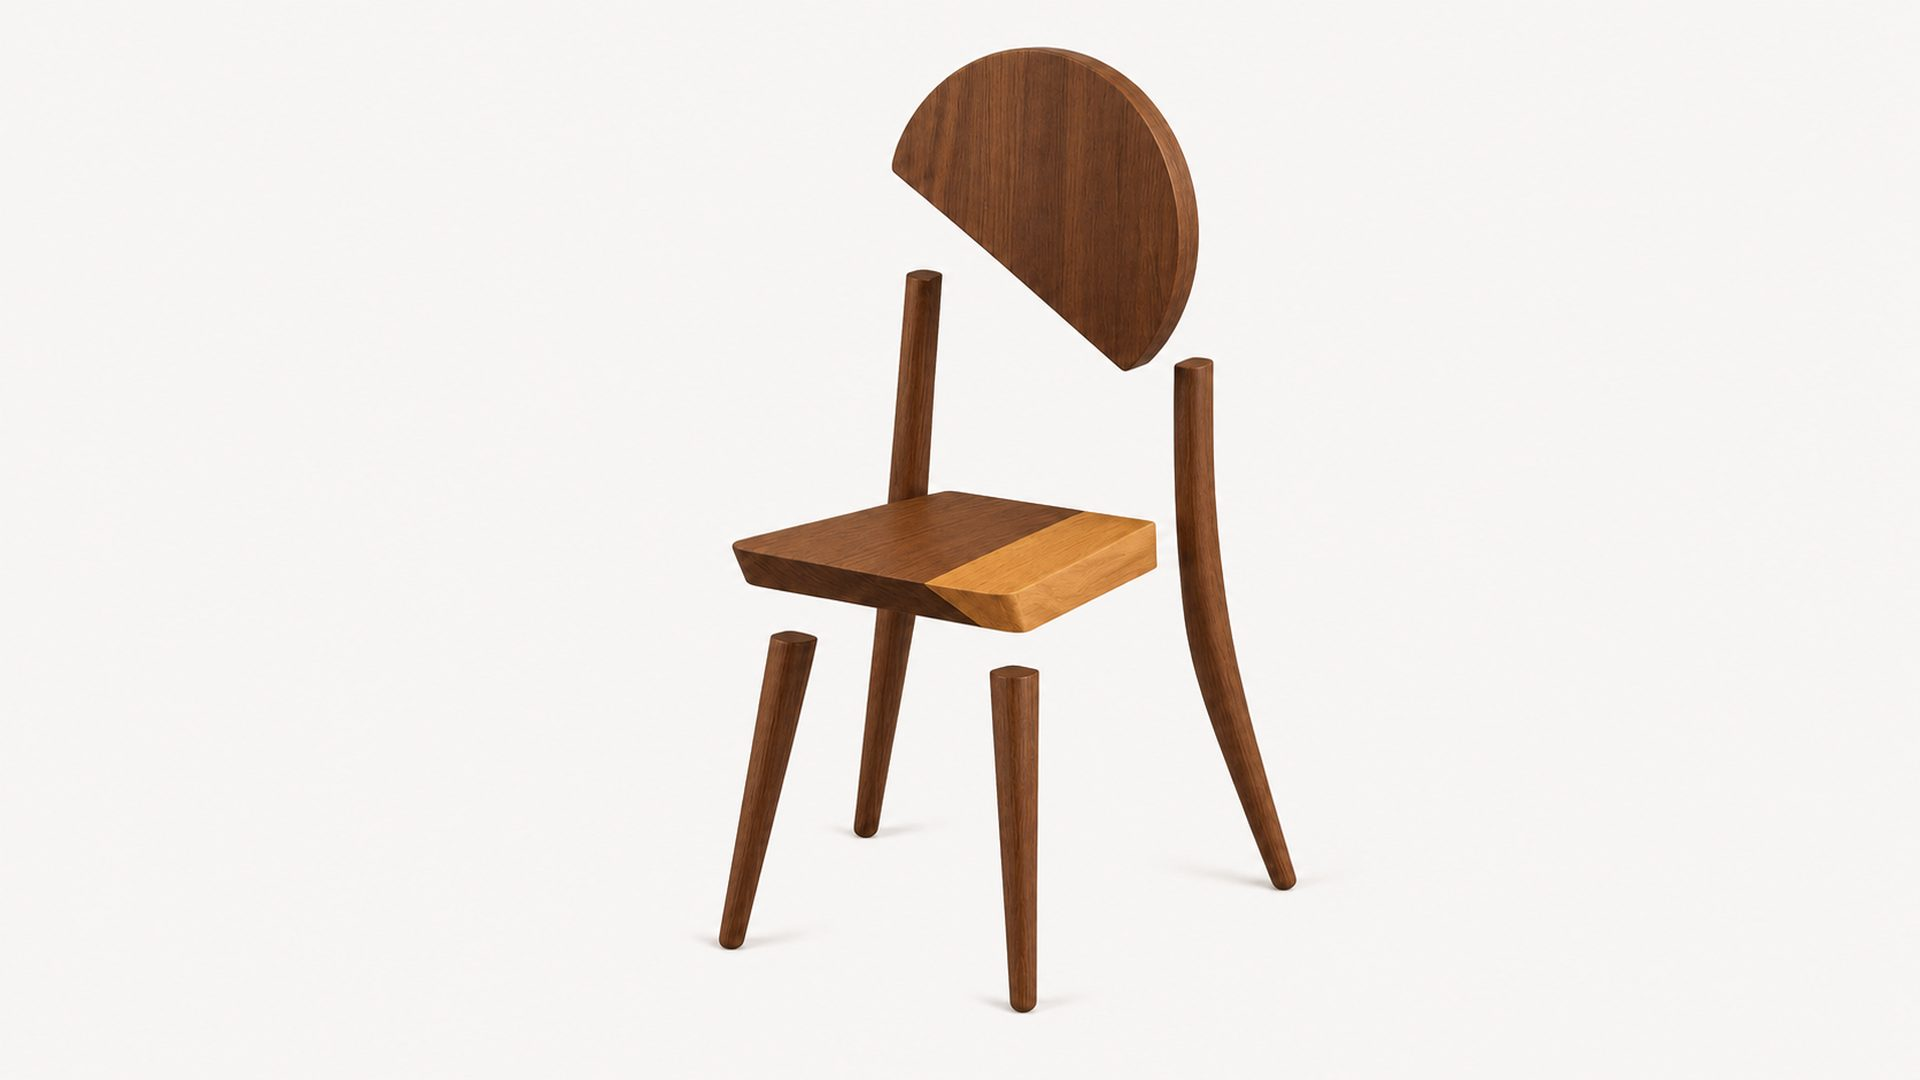
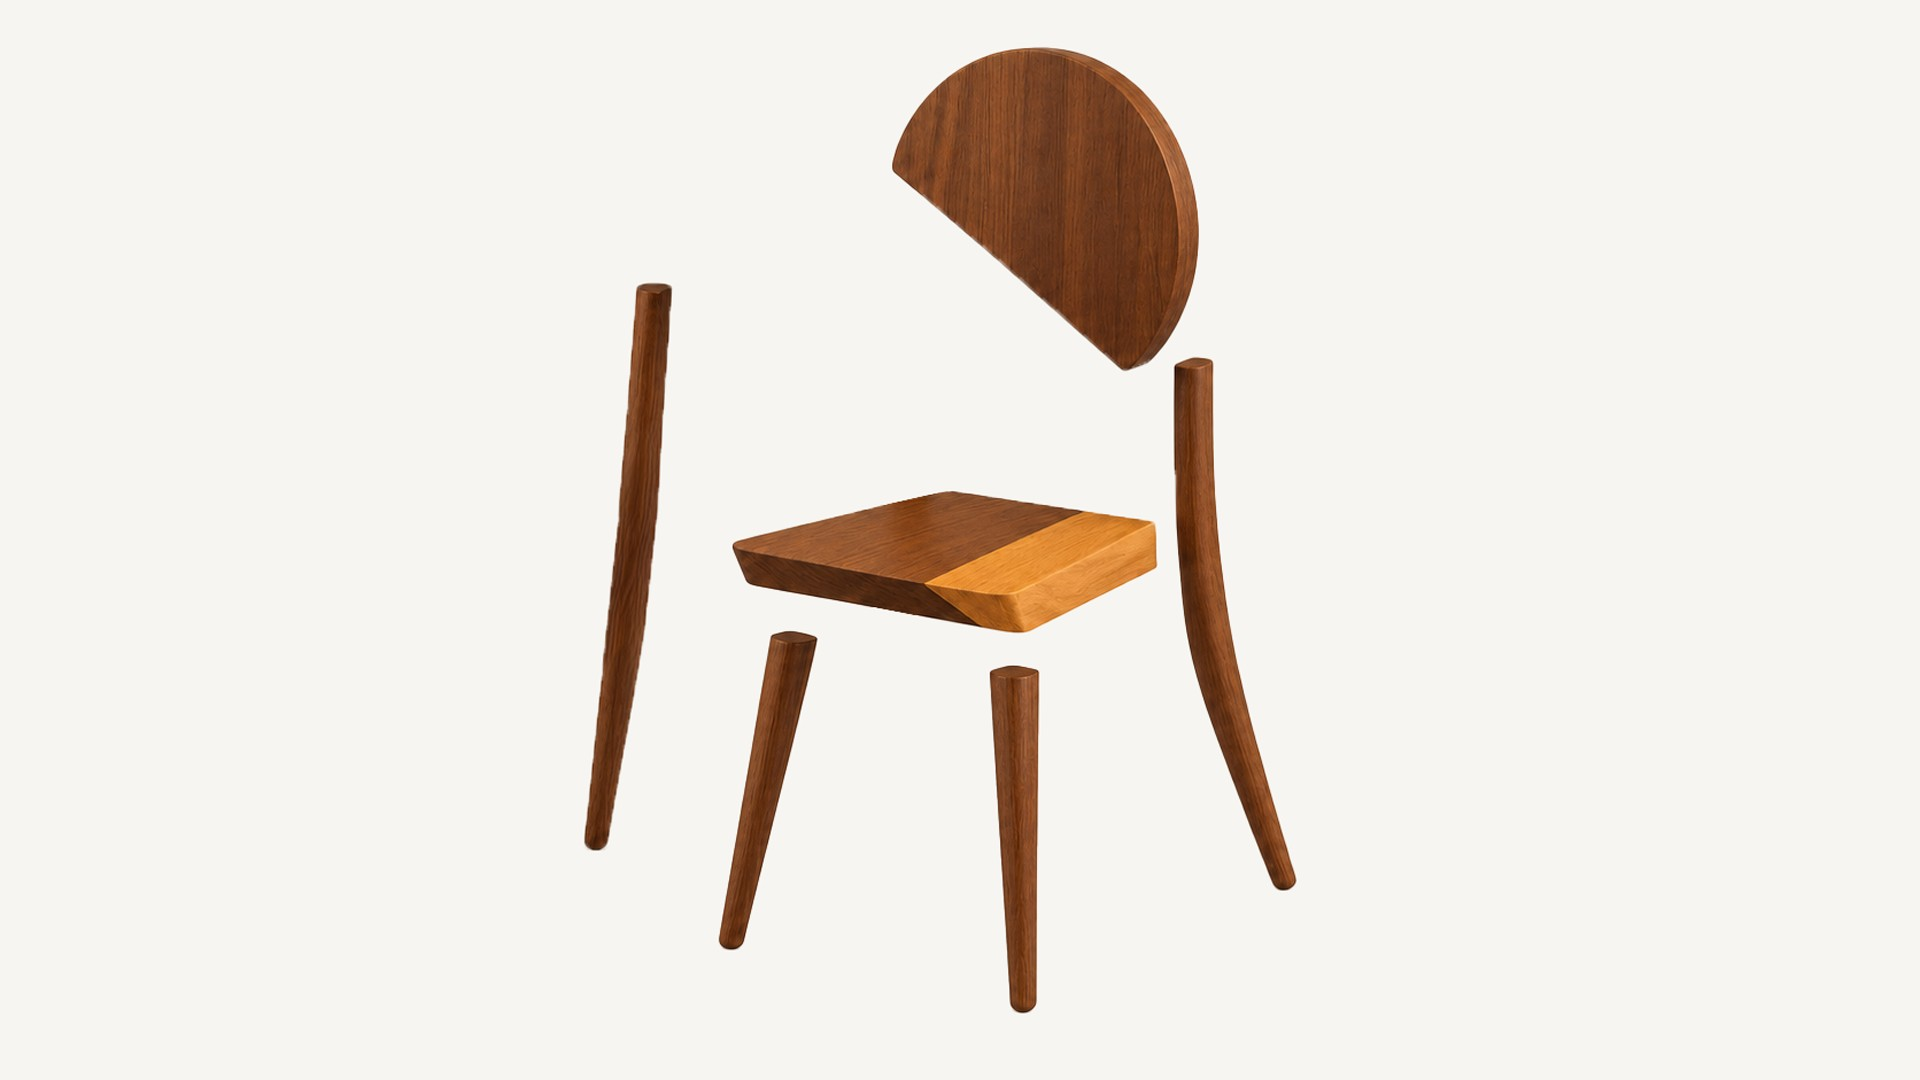
Edits
Made tweaks via Claude

diff --git a/totem.html b/totem.html
@@ -9,7 +9,7 @@
 <link rel="preconnect" href="https://fonts.googleapis.com">
 <link rel="preconnect" href="https://fonts.gstatic.com" crossorigin>
 <link href="https://fonts.googleapis.com/css2?family=DM+Mono&family=Hanken+Grotesk:wght@200;300;400&display=swap" rel="stylesheet">
-<link rel="stylesheet" href="css/style.css?v=13">
+<link rel="stylesheet" href="css/style.css?v=14">
 </head>
 <body>
 <header class="nav grid">
@@ -61,12 +61,12 @@
     </div>
   </section>
 
-  <section class="construction" data-construction>
+  <section class="construction" data-construction data-parts-final>
     <div class="construction__stick grid">
       <div class="construction__label">Construction</div>
       <div class="construction__tile" role="img" aria-label="Totem assembling from its parts as you scroll">
-        <img class="exploded" src="assets/renders/totem-exploded.jpg" alt="">
-        <img class="piece" src="assets/parts/totem-0.png?v=13" alt="" data-dx="0.857" data-dy="5.309" data-sx="1.0731" data-sy="1.0934" style="left:46.172%;top:3.819%;width:16.562%;height:31.111%;z-index:5"><img class="piece" src="assets/parts/totem-1.png?v=13" alt="" data-dx="0.16" data-dy="-1.202" data-sx="1.0142" data-sy="0.9914" style="left:37.852%;top:24.444%;width:22.695%;height:53.681%;z-index:3"><img class="piece" src="assets/parts/totem-2.png?v=13" alt="" data-dx="-1.621" data-dy="0.241" data-sx="0.9986" data-sy="0.9986" style="left:60.82%;top:32.569%;width:6.992%;height:50.417%;z-index:3"><img class="piece" src="assets/parts/totem-3.png?v=13" alt="" data-dx="1.586" data-dy="-6.116" data-sx="1.114" data-sy="1.114" style="left:36.719%;top:57.847%;width:6.133%;height:30.625%;z-index:1"><img class="piece" src="assets/parts/totem-4.png?v=13" alt="" data-dx="1.434" data-dy="-6.555" data-sx="1.1462" data-sy="1.1462" style="left:51.25%;top:61.111%;width:3.164%;height:33.264%;z-index:1"><img class="piece" src="assets/parts/totem-5.png?v=13" alt="" data-dx="3.735" data-dy="1.39" data-sx="0.9679" data-sy="0.9149" style="left:37.852%;top:24.444%;width:22.695%;height:53.681%;z-index:4"><img class="piece" src="assets/parts/totem-6.png?v=13" alt="" data-dx="-6.793" data-dy="-10.624" data-sx="1.321" data-sy="1.321" data-m="1.24304,0.08224,-4.2016,-8.5412" style="left:37.852%;top:24.444%;width:22.695%;height:53.681%">
+        <img class="exploded" src="assets/renders/totem-exploded.jpg?v=14" alt="">
+        <img class="piece" src="assets/parts/totem-0.png?v=14" alt="" data-dx="0.956" data-dy="5.221" data-sx="1.0600000000000003" data-sy="1.0600000000000003" style="left:46.232%;top:4.038%;width:16.388%;height:30.712%;z-index:5"><img class="piece" src="assets/parts/totem-1.png?v=14" alt="" data-dx="1.664" data-dy="-0.799" data-sx="0.9400000000000002" data-sy="0.9400000000000002" style="left:37.919%;top:45.058%;width:22.548%;height:13.921%;z-index:3"><img class="piece" src="assets/parts/totem-2.png?v=14" alt="" data-dx="-1.485" data-dy="5.961" data-sx="0.85" data-sy="0.85" style="left:60.885%;top:32.731%;width:6.878%;height:50.159%;z-index:4"><img class="piece" src="assets/parts/totem-3.png?v=14" alt="" data-dx="1.307" data-dy="-5.53" data-sx="1.0923" data-sy="1.0923" style="left:37.201%;top:58.023%;width:5.562%;height:30.287%;z-index:2"><img class="piece" src="assets/parts/totem-4.png?v=14" alt="" data-dx="1.562" data-dy="-6.452" data-sx="1.1124" data-sy="1.1124" style="left:51.316%;top:61.211%;width:3.05%;height:32.944%;z-index:2"><img class="piece" src="assets/parts/totem-5.png?v=14" alt="" data-dx="0" data-dy="0" data-sx="1" data-sy="1" data-m="1.0,0,17.2082,0.3144" style="left:30.203%;top:25.824%;width:5.024%;height:53.348%;z-index:1">
         <img class="assembled" src="assets/renders/totem-three-quarter.jpg" alt="">
       </div>
     </div>
@@ -111,8 +111,8 @@
   <a href="#">Instagram</a>
   <a href="#">Contact</a>
 </footer>
-<script src="js/menu.js?v=13" defer></script>
-<script src="js/viewer.js?v=13" defer></script>
-<script src="js/construction.js?v=13" defer></script>
+<script src="js/menu.js?v=14" defer></script>
+<script src="js/viewer.js?v=14" defer></script>
+<script src="js/construction.js?v=14" defer></script>
 </body>
 </html>

diff --git a/shard.html b/shard.html
@@ -9,7 +9,7 @@
 <link rel="preconnect" href="https://fonts.googleapis.com">
 <link rel="preconnect" href="https://fonts.gstatic.com" crossorigin>
 <link href="https://fonts.googleapis.com/css2?family=DM+Mono&family=Hanken+Grotesk:wght@200;300;400&display=swap" rel="stylesheet">
-<link rel="stylesheet" href="css/style.css?v=13">
+<link rel="stylesheet" href="css/style.css?v=14">
 </head>
 <body>
 <header class="nav grid">
@@ -65,8 +65,8 @@
     <div class="construction__stick grid">
       <div class="construction__label">Construction</div>
       <div class="construction__tile" role="img" aria-label="Shard assembling from its parts as you scroll">
-        <img class="exploded" src="assets/renders/shard-exploded.jpg" alt="">
-        <img class="piece" src="assets/parts/shard-0.png?v=13" alt="" data-dx="-0.247" data-dy="7.662" data-sx="1" data-sy="1" style="left:36.914%;top:2.847%;width:14.727%;height:39.028%;z-index:2"><img class="piece" src="assets/parts/shard-1.png?v=13" alt="" data-dx="-0.325" data-dy="0.509" data-sx="1" data-sy="1" style="left:38.203%;top:38.472%;width:24.805%;height:14.653%;z-index:3"><img class="piece" src="assets/parts/shard-2.png?v=13" alt="" data-dx="0.703" data-dy="-6.99" data-sx="1" data-sy="1" style="left:36.406%;top:52.292%;width:5.898%;height:39.375%;z-index:1"><img class="piece" src="assets/parts/shard-3.png?v=13" alt="" data-dx="-0.143" data-dy="-6.621" data-sx="1" data-sy="1" style="left:48.398%;top:52.847%;width:2.773%;height:29.931%;z-index:1"><img class="piece" src="assets/parts/shard-4.png?v=13" alt="" data-dx="-0.56" data-dy="-6.482" data-sx="1" data-sy="1" style="left:56.68%;top:55.208%;width:5.625%;height:40.417%;z-index:1">
+        <img class="exploded" src="assets/renders/shard-exploded.jpg?v=14" alt="">
+        <img class="piece" src="assets/parts/shard-0.png?v=14" alt="" data-dx="-0.247" data-dy="7.662" data-sx="1" data-sy="1" style="left:36.914%;top:2.847%;width:14.727%;height:39.028%;z-index:2"><img class="piece" src="assets/parts/shard-1.png?v=14" alt="" data-dx="-0.325" data-dy="0.509" data-sx="1" data-sy="1" style="left:38.203%;top:38.472%;width:24.805%;height:14.653%;z-index:3"><img class="piece" src="assets/parts/shard-2.png?v=14" alt="" data-dx="0.703" data-dy="-6.99" data-sx="1" data-sy="1" style="left:36.406%;top:52.292%;width:5.898%;height:39.375%;z-index:1"><img class="piece" src="assets/parts/shard-3.png?v=14" alt="" data-dx="-0.143" data-dy="-6.621" data-sx="1" data-sy="1" style="left:48.398%;top:52.847%;width:2.773%;height:29.931%;z-index:1"><img class="piece" src="assets/parts/shard-4.png?v=14" alt="" data-dx="-0.56" data-dy="-6.482" data-sx="1" data-sy="1" style="left:56.68%;top:55.208%;width:5.625%;height:40.417%;z-index:1">
         <img class="assembled" src="assets/renders/shard-three-quarter.jpg" alt="">
       </div>
     </div>
@@ -111,8 +111,8 @@
   <a href="#">Instagram</a>
   <a href="#">Contact</a>
 </footer>
-<script src="js/menu.js?v=13" defer></script>
-<script src="js/viewer.js?v=13" defer></script>
-<script src="js/construction.js?v=13" defer></script>
+<script src="js/menu.js?v=14" defer></script>
+<script src="js/viewer.js?v=14" defer></script>
+<script src="js/construction.js?v=14" defer></script>
 </body>
 </html>

diff --git a/float.html b/float.html
@@ -9,7 +9,7 @@
 <link rel="preconnect" href="https://fonts.googleapis.com">
 <link rel="preconnect" href="https://fonts.gstatic.com" crossorigin>
 <link href="https://fonts.googleapis.com/css2?family=DM+Mono&family=Hanken+Grotesk:wght@200;300;400&display=swap" rel="stylesheet">
-<link rel="stylesheet" href="css/style.css?v=13">
+<link rel="stylesheet" href="css/style.css?v=14">
 </head>
 <body>
 <header class="nav grid">
@@ -65,8 +65,8 @@
     <div class="construction__stick grid">
       <div class="construction__label">Construction</div>
       <div class="construction__tile" role="img" aria-label="Float assembling from its parts as you scroll">
-        <img class="exploded" src="assets/renders/float-exploded.jpg" alt="">
-        <img class="piece" src="assets/parts/float-0.png?v=13" alt="" data-dx="0.834" data-dy="1.992" data-sx="0.9345" data-sy="0.9345" style="left:37.031%;top:9.167%;width:34.375%;height:69.236%;z-index:3"><img class="piece" src="assets/parts/float-1.png?v=13" alt="" data-dx="1.213" data-dy="-5.798" data-sx="1.0862" data-sy="1.0862" style="left:35.078%;top:47.986%;width:4.258%;height:32.431%;z-index:1"><img class="piece" src="assets/parts/float-2.png?v=13" alt="" data-dx="0.288" data-dy="-6.784" data-sx="1.0304" data-sy="1.0304" style="left:50.391%;top:51.528%;width:3.75%;height:37.222%;z-index:1"><img class="piece" src="assets/parts/float-3.png?v=13" alt="" data-dx="0.417" data-dy="2.5" data-sx="0.86" data-sy="0.94" style="left:37.031%;top:9.167%;width:34.375%;height:69.236%;z-index:2">
+        <img class="exploded" src="assets/renders/float-exploded.jpg?v=14" alt="">
+        <img class="piece" src="assets/parts/float-0.png?v=14" alt="" data-dx="0.834" data-dy="1.992" data-sx="0.9345" data-sy="0.9345" style="left:37.031%;top:9.167%;width:34.375%;height:69.236%;z-index:3"><img class="piece" src="assets/parts/float-1.png?v=14" alt="" data-dx="1.213" data-dy="-5.798" data-sx="1.0862" data-sy="1.0862" style="left:35.078%;top:47.986%;width:4.258%;height:32.431%;z-index:1"><img class="piece" src="assets/parts/float-2.png?v=14" alt="" data-dx="0.288" data-dy="-6.784" data-sx="1.0304" data-sy="1.0304" style="left:50.391%;top:51.528%;width:3.75%;height:37.222%;z-index:1"><img class="piece" src="assets/parts/float-3.png?v=14" alt="" data-dx="0.417" data-dy="2.5" data-sx="0.86" data-sy="0.94" style="left:37.031%;top:9.167%;width:34.375%;height:69.236%;z-index:2">
         <img class="assembled" src="assets/renders/float-three-quarter.jpg" alt="">
       </div>
     </div>
@@ -111,8 +111,8 @@
   <a href="#">Instagram</a>
   <a href="#">Contact</a>
 </footer>
-<script src="js/menu.js?v=13" defer></script>
-<script src="js/viewer.js?v=13" defer></script>
-<script src="js/construction.js?v=13" defer></script>
+<script src="js/menu.js?v=14" defer></script>
+<script src="js/viewer.js?v=14" defer></script>
+<script src="js/construction.js?v=14" defer></script>
 </body>
 </html>

diff --git a/js/construction.js b/js/construction.js
@@ -7,6 +7,8 @@
   const tile = section.querySelector(".construction__tile");
   const exploded = tile.querySelector(".exploded");
   const assembled = tile.querySelector(".assembled");
+  // Totem ends on its own parts (the studio render hides the back leg)
+  const partsFinal = section.hasAttribute("data-parts-final");
   const pieces = [...tile.querySelectorAll(".piece")].map(el => ({ el, dx: +el.dataset.dx, dy: +el.dataset.dy, sx: +el.dataset.sx || 1, sy: +el.dataset.sy || 1, out: !!el.dataset.out, m: el.dataset.m ? el.dataset.m.split(",").map(Number) : null }));
   if (matchMedia("(prefers-reduced-motion: reduce)").matches) return;
 
@@ -36,7 +38,7 @@
         }
         q.el.style.transform = `translate(${(q.dx / 100 * w * t).toFixed(2)}px, ${(q.dy / 100 * h * t).toFixed(2)}px) scale(${(1 + (q.sx - 1) * t).toFixed(4)}, ${(1 + (q.sy - 1) * t).toFixed(4)})`;
       });
-      assembled.style.opacity = ease((p - 0.5) / 0.1).toFixed(3);
+      if (!partsFinal) assembled.style.opacity = ease((p - 0.5) / 0.1).toFixed(3);
     }
     requestAnimationFrame(tick);
   }

diff --git a/index.html b/index.html
@@ -9,7 +9,7 @@
 <link rel="preconnect" href="https://fonts.googleapis.com">
 <link rel="preconnect" href="https://fonts.gstatic.com" crossorigin>
 <link href="https://fonts.googleapis.com/css2?family=DM+Mono&family=Hanken+Grotesk:wght@200;300;400&display=swap" rel="stylesheet">
-<link rel="stylesheet" href="css/style.css?v=13">
+<link rel="stylesheet" href="css/style.css?v=14">
 </head>
 <body>
 <header class="nav grid">
@@ -142,8 +142,8 @@
   <a href="#">Instagram</a>
   <a href="#">Contact</a>
 </footer>
-<script src="js/menu.js?v=13" defer></script>
-<script src="js/lineup.js?v=13" defer></script>
-<script src="js/shape.js?v=13" defer></script>
+<script src="js/menu.js?v=14" defer></script>
+<script src="js/lineup.js?v=14" defer></script>
+<script src="js/shape.js?v=14" defer></script>
 </body>
 </html>
